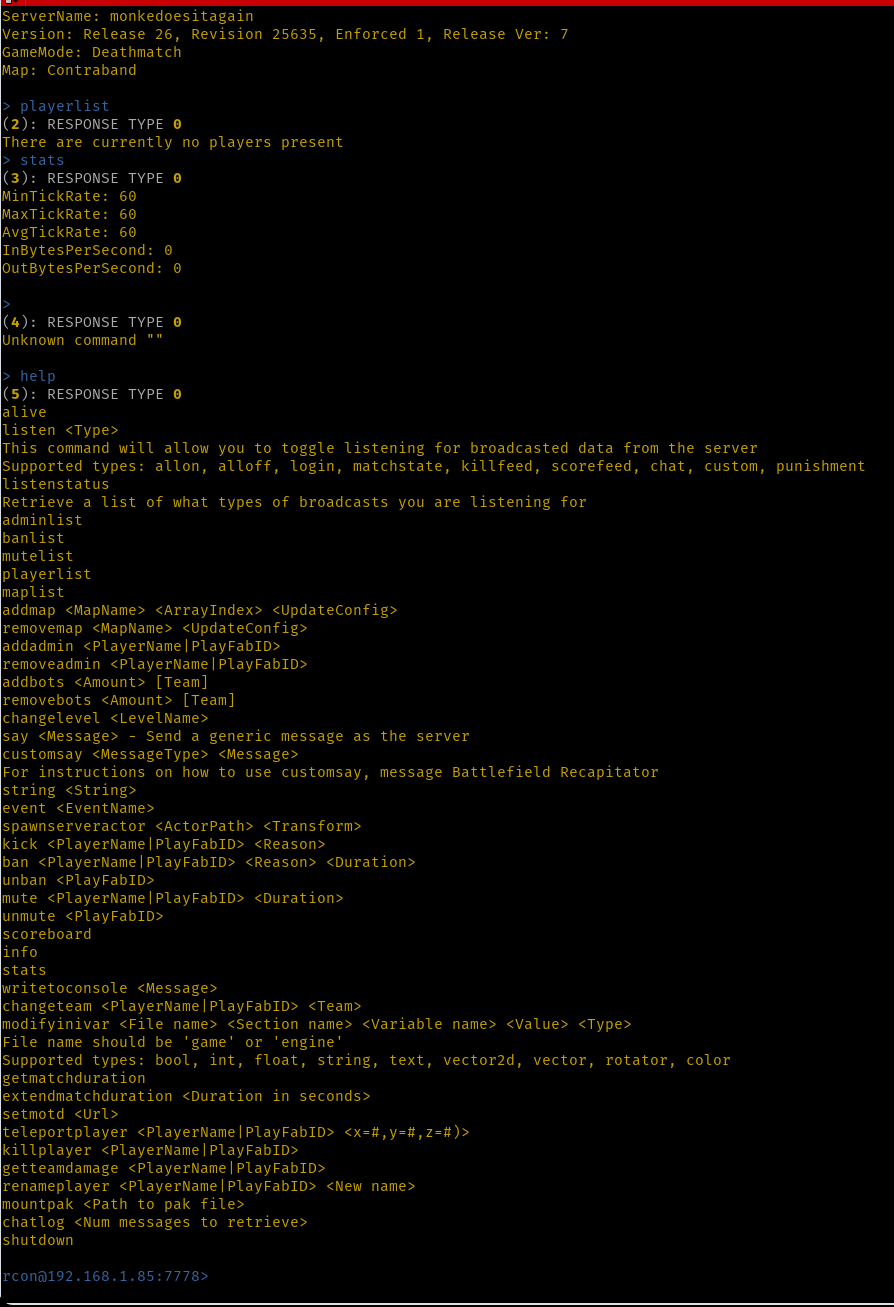
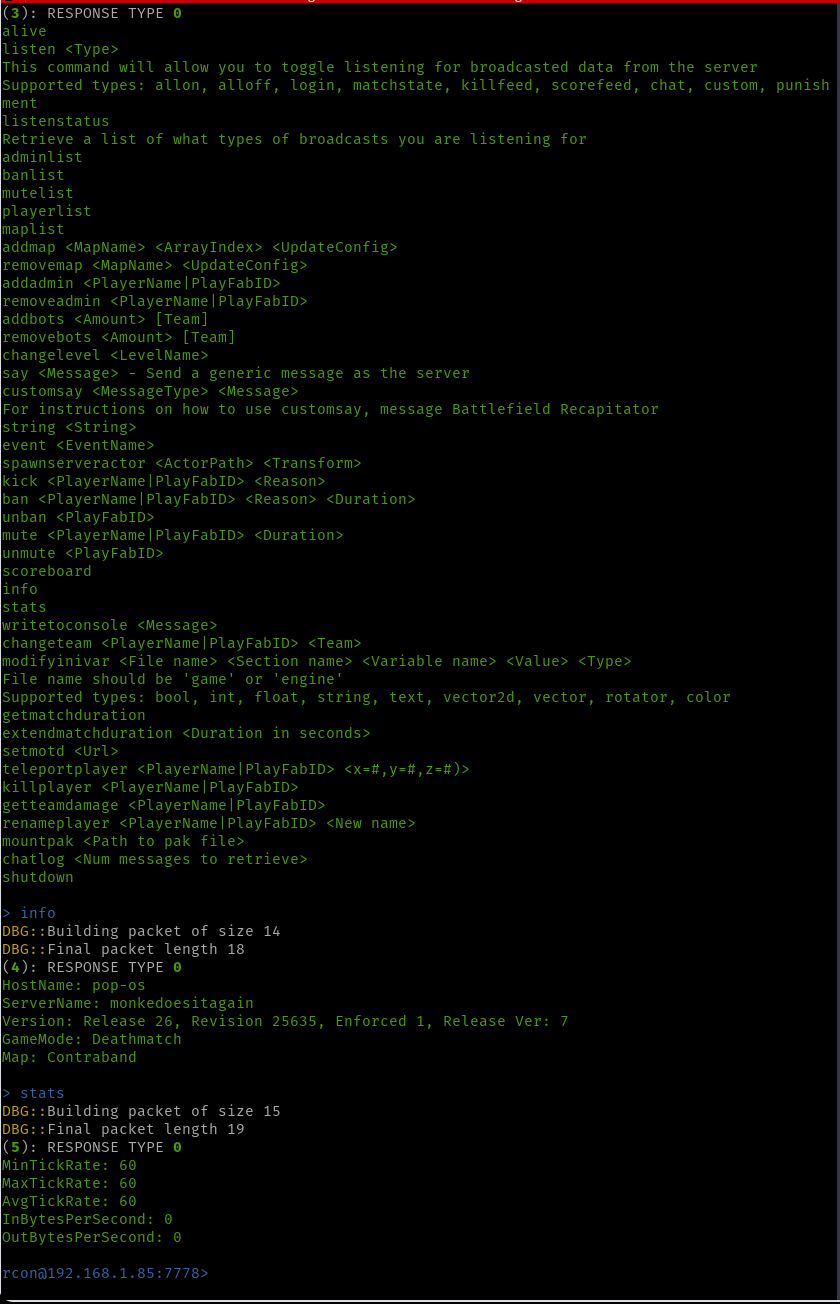
feat: more coloring and cleanup (#2)
* feat: more coloring and cleanup

* feat: update demo image

---------

diff --git a/internal/logger/logwriter.go b/internal/logger/logwriter.go
@@ -4,6 +4,8 @@ import (
 	"io"
 	"log"
 	"os"
+
+	"github.com/UltimateForm/tcprcon/internal/ansi"
 )
 
 const (
@@ -91,7 +93,7 @@ func newWithCustomDestinations(level uint8, writer io.Writer) *LogWriter {
 }
 
 var (
-	Writer   *LogWriter
+	writer   *LogWriter
 	Info     *log.Logger
 	Debug    *log.Logger
 	Err      *log.Logger
@@ -99,22 +101,22 @@ var (
 	Critical *log.Logger
 )
 
-func SetupCustomDestination(level uint8, writer io.Writer) {
-	Writer = newWithCustomDestinations(level, writer)
-	Info = log.New(Writer.Info, "INF::", 0)
-	Debug = log.New(Writer.Debug, "DBG::", 0)
-	Err = log.New(Writer.Error, "ERR::", 0)
-	Warn = log.New(Writer.Warn, "WRN::", 0)
-	Critical = log.New(Writer.Critical, "CRT::", 0)
+func setGlobalLoggers() {
+	Info = log.New(writer.Info, ansi.Format("INF::", ansi.DefaultColor), 0)
+	Debug = log.New(writer.Debug, ansi.Format("DBG::", ansi.Yellow), 0)
+	Err = log.New(writer.Error, ansi.Format("ERR::", ansi.Red), 0)
+	Warn = log.New(writer.Warn, ansi.Format("WRN::", ansi.Magenta), 0)
+	Critical = log.New(writer.Critical, ansi.Format("CRT::", ansi.Red), 0)
+}
+
+func SetupCustomDestination(level uint8, customWriter io.Writer) {
+	writer = newWithCustomDestinations(level, customWriter)
+	setGlobalLoggers()
 }
 
 func Setup(level uint8) {
-	Writer = New(level)
-	Info = log.New(Writer.Info, "INF::", 0)
-	Debug = log.New(Writer.Debug, "DBG::", 0)
-	Err = log.New(Writer.Error, "ERR::", 0)
-	Warn = log.New(Writer.Warn, "WRN::", 0)
-	Critical = log.New(Writer.Critical, "CRT::", 0)
+	writer = New(level)
+	setGlobalLoggers()
 }
 
 func init() {

diff --git a/cmd/terminal.go b/cmd/terminal.go
@@ -6,6 +6,7 @@ import (
 	"fmt"
 	"os"
 	"strconv"
+	"strings"
 
 	"github.com/UltimateForm/tcprcon/internal/ansi"
 	"github.com/UltimateForm/tcprcon/internal/fullterm"
@@ -38,9 +39,9 @@ func runRconTerminal(client *client.RCONClient, ctx context.Context, logLevel ui
 				fmt.Fprintf(
 					app,
 					"(%v): RESPONSE TYPE %v\n%v\n",
-					ansi.Format(strconv.Itoa(int(streamedPacket.Id)), ansi.Yellow, ansi.Bold),
-					ansi.Format(strconv.Itoa(int(streamedPacket.Type)), ansi.Yellow, ansi.Bold),
-					ansi.Format(streamedPacket.BodyStr(), ansi.Yellow),
+					ansi.Format(strconv.Itoa(int(streamedPacket.Id)), ansi.Green, ansi.Bold),
+					ansi.Format(strconv.Itoa(int(streamedPacket.Type)), ansi.Green, ansi.Bold),
+					ansi.Format(strings.TrimRight(streamedPacket.BodyStr(), "\n\r")+"\n", ansi.Green),
 				)
 			}
 		}

diff --git a/main.go b/main.go
@@ -6,33 +6,4 @@ import (
 
 func main() {
 	cmd.Execute()
-	// logger.Setup(logger.LevelDebug)
-	// ctx, cancel := context.WithCancel(context.Background())
-	// defer cancel()
-	// app := fullterm.CreateApp()
-	// errChan := make(chan error, 1)
-	// appRun := func() {
-	// 	errChan <- app.Run(ctx)
-	// }
-
-	// appWriter := func() {
-	// 	counter := 0
-	// 	for {
-	// 		select {
-	// 		case <-ctx.Done():
-	// 			return
-	// 		default:
-	// 			fmt.Fprintf(app, "Counter: %v\n\r", counter)
-	// 			counter++
-	// 			time.Sleep(time.Duration(time.Second * 1))
-	// 		}
-	// 	}
-	// }
-	// go appRun()
-	// go appWriter()
-
-	// if err := <-errChan; err != nil {
-	// 	cancel()
-	// 	logger.Critical.Fatal(app)
-	// }
 }

diff --git a/internal/ansi/constants.go b/internal/ansi/constants.go
@@ -8,10 +8,13 @@ const (
 	ExitAltScreen  = "\033[?1049l"
 	Red            = 31
 	Green          = 32
+	BrightGreen    = 92
 	Yellow         = 33
 	Blue           = 34
+	BrightBlue     = 94
 	Magenta        = 35
 	Cyan           = 36
 	Bold           = 1
+	DefaultColor   = 39
 	Reset          = 0
 )

diff --git a/cmd/main.go b/cmd/main.go
@@ -65,7 +65,6 @@ func Execute() {
 	logLevel := uint8(logLevelParam)
 	logger.Setup(logLevel)
 	fullAddress := addressParam + ":" + strconv.Itoa(int(portParam))
-	// shell := fmt.Sprintf("[rcon@%v]", fullAddress)
 	password, err := determinePassword()
 	if err != nil {
 		logger.Critical.Fatal(err)
